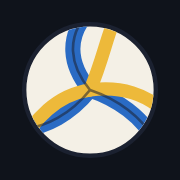
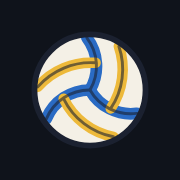
Volleyball redrawn (three-seam swirl after Tabler's ball-volleyball, MIT); serve catch-up is "⇄ Aufschlag"
Claude-Session: https://claude.ai/code/session_01UUDx1wcv7E6mt8JYxdCnMc

diff --git a/web/src/routes/live/[id]/+page.svelte b/web/src/routes/live/[id]/+page.svelte
@@ -310,7 +310,7 @@
               <button onclick={() => queue({ skill: 'adj', grade: '#' })}>+1 wir</button>
               <button onclick={() => queue({ skill: 'adj', grade: '=' })}>+1 Gegner</button>
               <button onclick={() => queue({ skill: 'rot' })}>⟳ Rotieren</button>
-              <button onclick={() => queue({ skill: 'srv', grade: st.serving ? '=' : '#' })} title="Aufschlagrecht setzen"><span class="ballico"></span>→ {st.serving ? 'Gegner' : 'wir'}</button>
+              <button onclick={() => queue({ skill: 'srv', grade: st.serving ? '=' : '#' })} title="Aufschlagrecht wechseln">⇄ Aufschlag</button>
             </div>
           {/if}
         </section>
@@ -427,7 +427,6 @@
   :global(.score .catch) { grid-column: 1 / -1; display: grid; grid-template-columns: repeat(4, 1fr); gap: 4px; margin-top: 4px; }
   :global(.score .catch button) { height: 30px; border-radius: 6px; border: 1px dashed var(--line); background: transparent; color: var(--ink-2); font-size: 12px; font-weight: 600; cursor: pointer; }
   :global(.score .catch button:hover) { background: var(--raised); color: var(--ink); }
-  :global(.score .catch .ballico) { display: inline-block; width: 12px; height: 12px; background: url(/icon.svg) center / contain no-repeat; margin-right: 3px; vertical-align: -2px; }
   /* desktop: one screen. Row 1 = three cards of equal height (each scrolls
      inside if it must), row 2 = the timeline across the full width. */
   /* desktop: the row takes its natural height (the taller of the left and

diff --git a/web/static/hilfe/index.html b/web/static/hilfe/index.html
@@ -218,7 +218,7 @@
       <ul>
         <li><span class="ui">+1 wir</span> und <span class="ui">+1 Gegner</span> zählen einen Punkt, ohne Rotation, Aufschlagrecht oder Statistik zu berühren. Die Punkte fließen in den Spielstand und ins Satzende, nicht in Sideout- und Break-Quoten.</li>
         <li><span class="ui">⟳ Rotieren</span> dreht das Feld um eine Position, so oft wie nötig, bis es wieder stimmt.</li>
-        <li>Der Ball-Knopf (<span class="ui">● → wir</span> beziehungsweise <span class="ui">● → Gegner</span>) setzt, wer als Nächstes aufschlägt.</li>
+        <li><span class="ui">⇄ Aufschlag</span> wechselt das Aufschlagrecht auf die andere Seite.</li>
       </ul>
       <p>Jeder Nachtrag steht als eigener Eintrag im Verlauf und lässt sich wie alles andere mit <span class="ui">↶ Rückgängig</span> zurücknehmen.</p>
 
